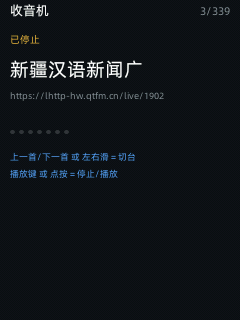
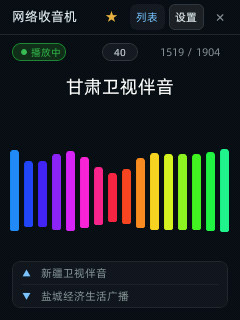
feat(radio): 增加主界面音量显示与设置项(频谱样式、色彩方案及持久化)

diff --git a/framework/examples/radio/src/pages/index.vue b/framework/examples/radio/src/pages/index.vue
@@ -3,21 +3,62 @@
     <div v-if="settingsOpen" class="settings-fullpage">
       <div class="settings-header"><text class="settings-title">收听设置</text><text class="settings-close" @click="closeSettings">完成</text></div>
       <div class="hairline"></div>
-      <div class="settings-section"><text class="settings-label">播放模式</text><div class="setting-row" @click="toggleRandom"><text class="setting-name">随机切台</text><text class="setting-value">{{ randomMode ? '开启' : '关闭' }}</text></div></div>
-      <div class="settings-section volume-section">
-        <text class="settings-label">音量</text>
-        <div class="volume-value-row">
-          <div class="volume-step" @click="adjustVolumeBy(-1)"><text class="volume-step-text">−</text></div>
-          <div class="volume-number-wrap"><text class="volume-number">{{ volumeLevel }}</text><text class="volume-unit">/ 100</text></div>
-          <div class="volume-step" @click="adjustVolumeBy(1)"><text class="volume-step-text">＋</text></div>
-        </div>
-        <div class="volume-presets">
-          <div v-for="level in volumePresets" :key="level" class="volume-preset" :style="volumePresetStyle(level)" @click="setVolumeLevel(level)">
-            <text :style="{color: volumeLevel === level ? '#ffffff' : '#8b949e', fontSize:'10px', fontWeight: volumeLevel === level ? 'bold' : 'normal'}">{{ level }}</text>
+      <scroller class="settings-scroller">
+        <!-- 频谱效果 -->
+        <div class="settings-section">
+          <text class="settings-label">频谱效果</text>
+          <div class="setting-row" @click="cycleVizStyle">
+            <text class="setting-name">显示样式</text>
+            <text class="setting-value">{{ vizStyles[vizStyle] }} ›</text>
+          </div>
+          <div class="setting-row" @click="cycleColorTheme">
+            <text class="setting-name">色彩方案</text>
+            <text class="setting-value">{{ colorThemeName() }} ›</text>
+          </div>
+          <div class="color-presets">
+            <div v-for="t in colorThemes" :key="t.key" class="color-preset" :style="colorPresetStyle(t.key)" @click="setColorTheme(t.key)">
+              <text :style="{color: colorTheme === t.key ? '#ffffff' : '#8b949e', fontSize:'10px', fontWeight: colorTheme === t.key ? 'bold' : 'normal'}">{{ t.name }}</text>
+            </div>
           </div>
         </div>
-      </div>
-      <div class="settings-section"><text class="settings-label">睡眠定时</text><div class="setting-row" @click="cycleSleep"><text class="setting-name">{{ sleepLabel || '关闭' }}</text><text class="setting-value">{{ sleepLabel ? '更改' : '设置' }}</text></div><div v-if="sleepLabel" class="setting-row" @click="cancelSleep"><text class="setting-name">取消定时</text><text class="setting-value">×</text></div></div>
+
+        <!-- 音量 -->
+        <div class="settings-section volume-section">
+          <text class="settings-label">音量</text>
+          <div class="volume-value-row">
+            <div class="volume-step" @click="adjustVolumeBy(-1)"><text class="volume-step-text">−</text></div>
+            <div class="volume-number-wrap"><text class="volume-number">{{ volumeLevel }}</text><text class="volume-unit">/ 100</text></div>
+            <div class="volume-step" @click="adjustVolumeBy(1)"><text class="volume-step-text">＋</text></div>
+          </div>
+          <div class="volume-presets">
+            <div v-for="level in volumePresets" :key="level" class="volume-preset" :style="volumePresetStyle(level)" @click="setVolumeLevel(level)">
+              <text :style="{color: volumeLevel === level ? '#ffffff' : '#8b949e', fontSize:'10px', fontWeight: volumeLevel === level ? 'bold' : 'normal'}">{{ level }}</text>
+            </div>
+          </div>
+        </div>
+
+        <!-- 播放模式 -->
+        <div class="settings-section">
+          <text class="settings-label">播放模式</text>
+          <div class="setting-row" @click="toggleRandom">
+            <text class="setting-name">随机切台</text>
+            <text class="setting-value">{{ randomMode ? '开启' : '关闭' }}</text>
+          </div>
+        </div>
+
+        <!-- 睡眠定时 -->
+        <div class="settings-section">
+          <text class="settings-label">睡眠定时</text>
+          <div class="setting-row" @click="cycleSleep">
+            <text class="setting-name">{{ sleepLabel || '关闭' }}</text>
+            <text class="setting-value">{{ sleepLabel ? '更改' : '设置' }}</text>
+          </div>
+          <div v-if="sleepLabel" class="setting-row" @click="cancelSleep">
+            <text class="setting-name">取消定时</text>
+            <text class="setting-value">×</text>
+          </div>
+        </div>
+      </scroller>
     </div>
     <!-- ================= 主界面 (统一播放界面) ================= -->
     <div v-else-if="view==='main'" class="fillcol">
@@ -33,12 +74,15 @@
       </div>
       <div class="hairline"></div>
 
-      <!-- 状态指示行（左：播放状态，右：台号序号） -->
+      <!-- 状态指示行（左：播放状态，中：音量，右：台号序号） -->
       <div class="statusrow">
         <div class="status-badge" @click="toggle" :style="{backgroundColor: playing ? '#132e1b' : '#1c2128', borderColor: playing ? '#238636' : (stateColor === '#d29922' ? '#9e6a03' : '#30363d')}">
           <div :style="{width:'6px',height:'6px',borderRadius:'3px',backgroundColor: playing ? '#3fb950' : stateColor,marginRight:'4px'}"></div>
           <text v-if="playing" class="status-text" :style="{color:'#3fb950',fontSize:'10px',fontWeight:'bold'}">播放中</text>
           <text v-else class="status-text" :style="{color:stateColor,fontSize:'10px',fontWeight:'bold'}">{{ stateText }}</text>
+        </div>
+        <div class="status-vol" @click="openSettings">
+          <text class="status-vol-text">{{ volumeLevel }}</text>
         </div>
         <div class="status-actions">
           <text :style="{color: randomMode ? '#e3b341' : '#8b949e',fontSize:'11px',marginRight:'8px'}">{{ randomMode ? '随机 · ' : '' }}{{ idx + 1 }} / {{ total }}</text>
@@ -2117,6 +2161,15 @@ export default {
       kw: '',
       favs: {},
       vizStyle: 0,
+      vizStyles: ['双向镜像', '经典柱状', 'LED点阵', '峰值山峰', '动感波峰', '环形雷达', '瀑布流', '粒子散落'],
+      colorTheme: 'rainbow',
+      colorThemes: [
+        { key: 'rainbow', name: '彩色' },
+        { key: 'mono', name: '灰白' },
+        { key: 'random', name: '随机' },
+        { key: 'cyber', name: '赛博' },
+        { key: 'amber', name: '琥珀' }
+      ],
       colIdx: [0,1,2,3,4,5,6,7,8,9,10,11,12,13,14,15],
       radialSegIdx: [3,2,1,0],
       fallRowIdx: [0,1,2,3],
@@ -2172,24 +2225,7 @@ export default {
     RadioSettings.load(this._radioSettingsIO).then(function (settings) { RadioSettings.apply(self, settings); });
     this._rows = null; this._rowsSig = ''; this._favSeq = 0;  // listItems 记忆化（非响应式）
 
-    /* 彩虹 LUT（music_vibe 色带思路：HSV 色相扫过 绿→黄→橙→红→品红，
-       S/V 压在 0.85/0.95，艳丽但不刺眼；列色固定不变，每帧只改高度） */
-    this._lut = [];
-    this._lutRgb = [];
-    for (let k = 0; k < 16; k++) {
-      const h = (210 + k * 20) % 360, s = 0.85, v = 0.95;
-      const c = v * (1 - s), f = h / 60 % 1, x = v * (1 - s * f);
-      const y = v * (1 - s * (1 - f));
-      let rgb;
-      switch (Math.floor(h / 60) % 6) {
-        case 0: rgb = [v, y, c]; break; case 1: rgb = [x, v, c]; break;
-        case 2: rgb = [c, v, y]; break; case 3: rgb = [c, x, v]; break;
-        case 4: rgb = [y, c, v]; break; default: rgb = [v, c, x]; break;
-      }
-      const to2 = function (n) { return ('0' + Math.round(n * 255).toString(16)).slice(-2); };
-      this._lut.push('#' + to2(rgb[0]) + to2(rgb[1]) + to2(rgb[2]));
-      this._lutRgb.push([Math.round(rgb[0] * 255), Math.round(rgb[1] * 255), Math.round(rgb[2] * 255)]);
-    }
+    this.applyColorLut(this.colorTheme || 'rainbow');
     this._specHist = [];   // 瀑布历史帧（每帧 unshift 当前 spec，保留 3 帧）
 
     /* 读收藏（/userdisk/radio_fav.txt，逗号分隔的台号） */
@@ -2367,6 +2403,93 @@ export default {
     toggleRandom() { RadioSettings.toggleRandom(this); },
     cycleSleep() { RadioSettings.cycleSleep(this); },
     cancelSleep() { RadioSettings.cancelSleep(this); },
+    cycleVizStyle() { RadioSettings.cycleVizStyle(this); },
+    colorThemeName() {
+      for (let i = 0; i < this.colorThemes.length; i++) {
+        if (this.colorThemes[i].key === this.colorTheme) return this.colorThemes[i].name;
+      }
+      return '彩色';
+    },
+    cycleColorTheme() {
+      const keys = ['rainbow', 'mono', 'random', 'cyber', 'amber'];
+      const curIdx = keys.indexOf(this.colorTheme);
+      const nextKey = keys[(curIdx + 1) % keys.length];
+      this.setColorTheme(nextKey);
+    },
+    setColorTheme(key, skipSave) {
+      this.colorTheme = key;
+      this.applyColorLut(key);
+      if (!skipSave) RadioSettings.setColorTheme(this, key);
+    },
+    colorPresetStyle(key) {
+      const sel = this.colorTheme === key;
+      return {
+        flex: 1, height: '28px', justifyContent: 'center', alignItems: 'center',
+        backgroundColor: sel ? '#1f6feb' : '#161b22',
+        borderRadius: '6px', marginRight: key !== 'amber' ? '4px' : '0'
+      };
+    },
+    applyColorLut(themeKey) {
+      const lut = [];
+      const lutRgb = [];
+      const to2 = function (n) { return ('0' + Math.max(0, Math.min(255, Math.round(n))).toString(16)).slice(-2); };
+
+      if (themeKey === 'mono') {
+        for (let k = 0; k < 16; k++) {
+          const v = Math.round(180 + (k / 15) * 65);
+          lut.push('#' + to2(v) + to2(v) + to2(v));
+          lutRgb.push([v, v, v]);
+        }
+      } else if (themeKey === 'random') {
+        const baseHue = Math.floor(Math.random() * 360);
+        for (let k = 0; k < 16; k++) {
+          const h = (baseHue + k * 137.5) % 360;
+          const s = 0.85, v = 0.95;
+          const c = v * (1 - s), f = h / 60 % 1, x = v * (1 - s * f), y = v * (1 - s * (1 - f));
+          let rgb;
+          switch (Math.floor(h / 60) % 6) {
+            case 0: rgb = [v, y, c]; break; case 1: rgb = [x, v, c]; break;
+            case 2: rgb = [c, v, y]; break; case 3: rgb = [c, x, v]; break;
+            case 4: rgb = [y, c, v]; break; default: rgb = [v, c, x]; break;
+          }
+          lut.push('#' + to2(rgb[0] * 255) + to2(rgb[1] * 255) + to2(rgb[2] * 255));
+          lutRgb.push([Math.round(rgb[0] * 255), Math.round(rgb[1] * 255), Math.round(rgb[2] * 255)]);
+        }
+      } else if (themeKey === 'cyber') {
+        for (let k = 0; k < 16; k++) {
+          const t = k / 15;
+          const r = Math.round(0 + t * 224);
+          const g = Math.round(229 - t * 165);
+          const b = Math.round(255 - t * 4);
+          lut.push('#' + to2(r) + to2(g) + to2(b));
+          lutRgb.push([r, g, b]);
+        }
+      } else if (themeKey === 'amber') {
+        for (let k = 0; k < 16; k++) {
+          const t = k / 15;
+          const r = 255;
+          const g = Math.round(200 - t * 90);
+          const b = Math.round(50 - t * 30);
+          lut.push('#' + to2(r) + to2(g) + to2(b));
+          lutRgb.push([r, g, b]);
+        }
+      } else {
+        for (let k = 0; k < 16; k++) {
+          const h = (210 + k * 20) % 360, s = 0.85, v = 0.95;
+          const c = v * (1 - s), f = h / 60 % 1, x = v * (1 - s * f), y = v * (1 - s * (1 - f));
+          let rgb;
+          switch (Math.floor(h / 60) % 6) {
+            case 0: rgb = [v, y, c]; break; case 1: rgb = [x, v, c]; break;
+            case 2: rgb = [c, v, y]; break; case 3: rgb = [c, x, v]; break;
+            case 4: rgb = [y, c, v]; break; default: rgb = [v, c, x]; break;
+          }
+          lut.push('#' + to2(rgb[0] * 255) + to2(rgb[1] * 255) + to2(rgb[2] * 255));
+          lutRgb.push([Math.round(rgb[0] * 255), Math.round(rgb[1] * 255), Math.round(rgb[2] * 255)]);
+        }
+      }
+      this._lut = lut;
+      this._lutRgb = lutRgb;
+    },
     /* 律动控件点击（单击播/停，双击切换律动动效） */
     onSpecClick() {
       if (this._swiped) {
@@ -2382,7 +2505,7 @@ export default {
           clearTimeout(this._specClickTimer);
           this._specClickTimer = null;
         }
-        this.vizStyle = (this.vizStyle + 1) % 8;
+        RadioSettings.cycleVizStyle(this);
         return;
       }
 
@@ -2610,6 +2733,7 @@ export default {
       this.idx = gi;
       this.stName = this.STATIONS[gi].n;
       this.saveLastStation(this.idx);
+      if (this.colorTheme === 'random') this.applyColorLut('random');
       await this.startPlayback();
       this.view = 'main';
     },
@@ -2705,6 +2829,7 @@ export default {
       } else {
         this.idx = (this.idx + d + n) % n;
       }
+      if (this.colorTheme === 'random') this.applyColorLut('random');
       const st = this.STATIONS[this.idx];
       this.stName = st.n;
       console.warn('[radio] 切台到', this.idx + 1, st.n, st.u);
@@ -2823,7 +2948,7 @@ export default {
 .settings-header { height: 40px; flex-direction: row; align-items: center; justify-content: space-between; }
 .settings-title { color: #ffffff; font-size: 15px; font-weight: bold; }
 .settings-close { color: #79c0ff; font-size: 12px; padding: 6px; }
-.settings-section { margin-top: 14px; }
+.settings-section { margin-top: 10px; }
 .volume-section { margin-top: 10px; }
 .fillcol { flex: 1; flex-direction: column; }
 .hairline { height: 1px; background-color: #21262d; }
@@ -2865,9 +2990,18 @@ export default {
   border-radius: 9px; border-width: 1px;
 }
 .status-text { width: 36px; min-width: 0; lines: 1; text-overflow: ellipsis; }
+.status-vol {
+  position: absolute; left: 74px; top: 1px;
+  width: 34px; height: 18px;
+  flex-direction: row; align-items: center; justify-content: center;
+  background-color: #161b22; border-radius: 9px; border-width: 1px; border-color: #30363d;
+}
+.status-vol-text {
+  color: #c9d1d9; font-size: 10px; font-weight: bold;
+}
 .status-actions {
   position: absolute; right: 12px; top: 1px;
-  width: 54px; flex-direction: row; align-items: center; justify-content: flex-end;
+  height: 18px; flex-direction: row; align-items: center; justify-content: flex-end;
 }
 .settings-shortcut { width: 34px; height: 22px; justify-content: center; align-items: center; background-color: #161b22; border-radius: 5px; }
 
@@ -2994,6 +3128,9 @@ export default {
 .volume-unit { color: #8b949e; font-size: 10px; font-weight: normal; }
 .volume-presets { flex-direction: row; align-items: center; margin-top: 5px; }
 .volume-preset { justify-content: center; align-items: center; }
+.settings-scroller { flex: 1; padding-bottom: 24px; }
+.color-presets { flex-direction: row; align-items: center; margin-top: 6px; }
+.color-preset { justify-content: center; align-items: center; }
 
 
 </style>

diff --git a/framework/examples/radio/src/pages/radio_settings.js b/framework/examples/radio/src/pages/radio_settings.js
@@ -4,6 +4,8 @@ const DURATIONS = [15, 30, 60, 90];
 function save(state) {
   const value = JSON.stringify({
     randomMode: !!state.randomMode,
+    vizStyle: typeof state.vizStyle === 'number' ? state.vizStyle : 0,
+    colorTheme: state.colorTheme || 'rainbow',
     sleepUntil: state._sleepUntil || 0,
     sleepMinutes: state._sleepMinutes || 0
   }).replace(/'/g, '\\u0027');
@@ -40,11 +42,32 @@ export default {
   },
   apply(state, settings) {
     state.randomMode = !!settings.randomMode;
+    if (typeof settings.vizStyle === 'number' && settings.vizStyle >= 0 && settings.vizStyle <= 7) {
+      state.vizStyle = settings.vizStyle;
+    }
+    if (settings.colorTheme && typeof state.setColorTheme === 'function') {
+      state.setColorTheme(settings.colorTheme, true);
+    }
     state._sleepMinutes = settings.sleepMinutes || 0;
     if (settings.sleepUntil > Date.now()) updateTimer(state, settings.sleepUntil);
   },
+  save(state) {
+    save(state);
+  },
   toggleRandom(state) {
     state.randomMode = !state.randomMode;
+    save(state);
+  },
+  setVizStyle(state, styleIdx) {
+    state.vizStyle = styleIdx % 8;
+    save(state);
+  },
+  cycleVizStyle(state) {
+    state.vizStyle = (state.vizStyle + 1) % 8;
+    save(state);
+  },
+  setColorTheme(state, themeKey) {
+    state.colorTheme = themeKey;
     save(state);
   },
   cycleSleep(state) {

diff --git a/framework/examples/radio/README.md b/framework/examples/radio/README.md
@@ -1,7 +1,7 @@
 # 收音机（e6app 示例应用 · appid 8090906000000007）
 
 网络收音机：内置 **1904 个电台条目**（蜻蜓 FM 等公开流，覆盖全国各省交通、音乐与新闻广播）。
-设备屏幕为 240×320；支持收藏、搜索、分页、手势切台和频谱样式切换。
+设备屏幕为 240×320；支持收藏、搜索、分页、手势切台、音量实时显示，以及 8 种频谱样式与 5 套色彩方案（彩色、灰白、随机颜色等）。
 
 ![真机截图](../../docs/images/e6_radio.png)
 
